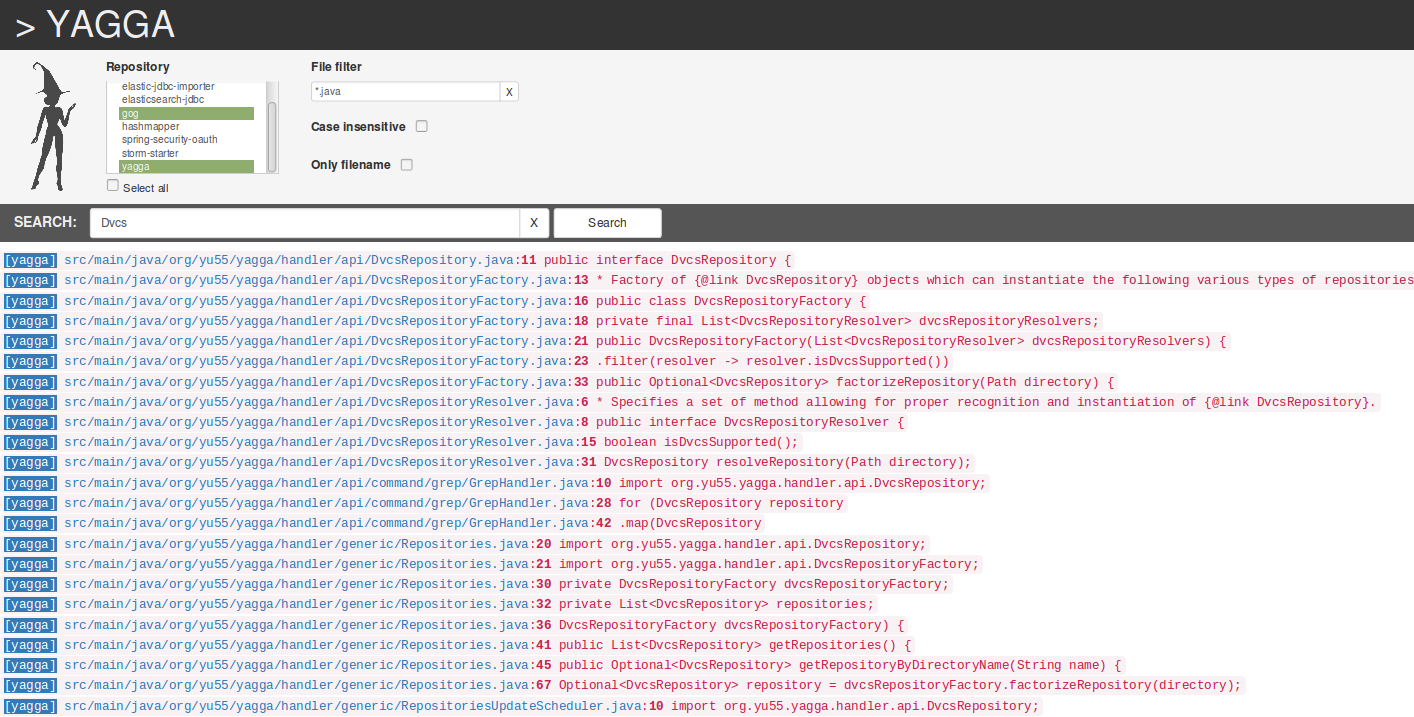
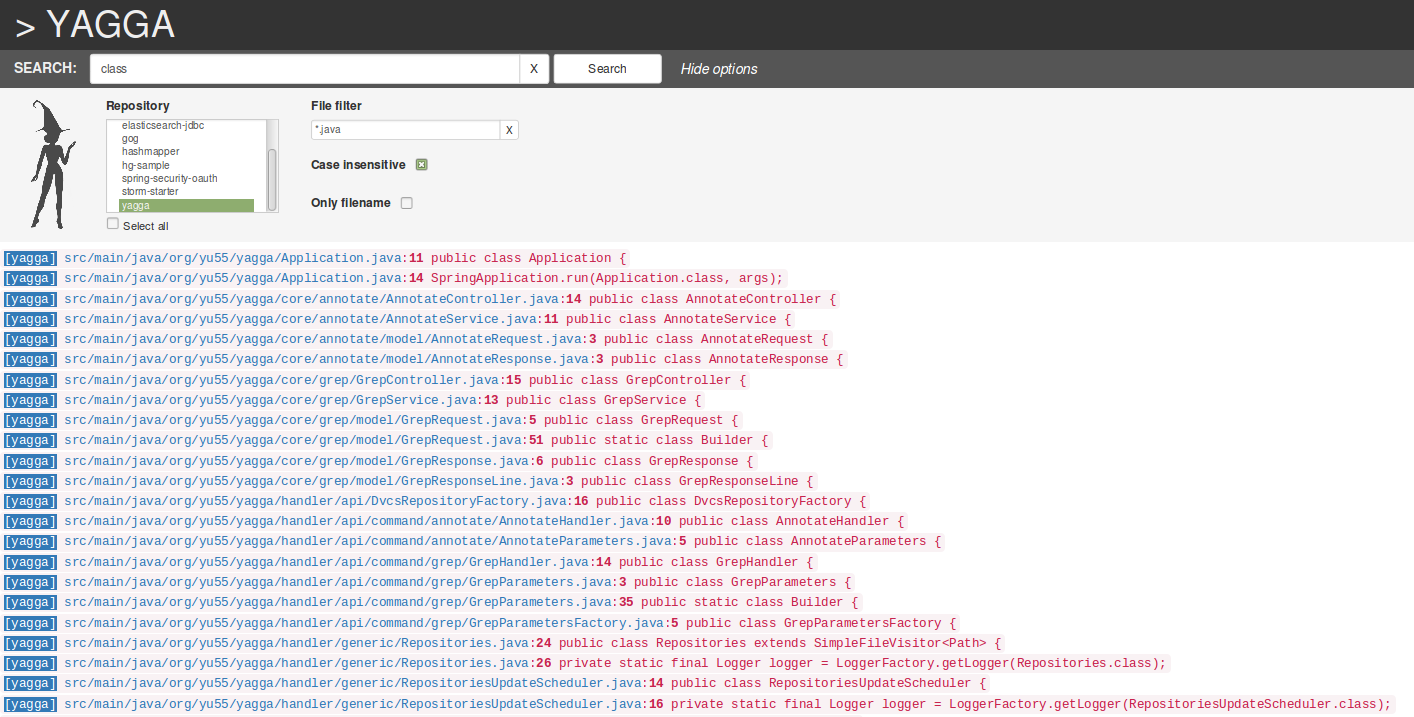
#50 grep l&f changes

Changed region(s): [[0.0, 0.0614, 1.0, 1.0], [0.2178, 0.2148, 0.3112, 0.2455]]

diff --git a/src/main/resources/static/index.html b/src/main/resources/static/index.html
@@ -13,7 +13,24 @@
     <h1>&nbsp;> YAGGA</h1>
 </div>
 <form ng-submit="grep()" class="form-inline">
-    <div class="searchSection">
+    <div class="form-group"
+         style="padding-left: 1em; width: 100%; color: #eee; background-color: #555; padding-top: 0.3em; padding-bottom: 0.3em; margin-bottom: 0.0em">
+        <label>SEARCH: &nbsp;</label>
+
+        <div class="input-group input-group-sm">
+            <input type="text" class="form-control" id="grepText" ng-model="wanted" ng-trim="false" size="60"/>
+            <span class="input-group-btn">
+                <button class="btn btn-default" type="button" data-ng-click="clearSearchWanted()">X</button>
+            </span>
+        </div>
+        <div class="btn-group btn-group-sm">
+            <input type="submit" class="btn btn-default" style="width: 9em" value="Search"/>
+        </div>
+        <div class="input-group input-group-sm" style="margin-left: 1em">
+            <span id="show_options" ng-click="switchOptions()" style="font-style: italic; color: white; margin: 0px; padding: 0px; cursor: pointer">{{optionsLabel[options]}}</span>
+        </div>
+    </div>
+    <div class="searchSection" ng-show="options == 0">
         <table border="0" cellspacing="0" cellpadding="5px">
             <tr>
                 <td style="padding-left: 2em; padding-right: 2em">
@@ -35,15 +52,15 @@
                                 <br/>
 
                                 <div class="checkbox">
-                                    <input type="checkbox" ng-model="selected" ng-change="selectAll(selected)">
-                                    <span style="font-size: smaller; ">Select all</span>
+                                    <input id="selectAll" type="checkbox" ng-model="selected" ng-change="selectAll()">
+                                    <label style="font-size: smaller;" for="selectAll">Select all</label>
                                 </div>
                             </div>
                         </div>
                         <div class="form-group" style="vertical-align: top; padding-right: 3em; padding-left: 2em">
                             <label style="font-size: 12px">File filter</label><br/>
 
-                            <div class="input-group input-group-sm">
+                            <div class="input-group">
                                 <input type="text" style="font-size: 10px; padding: 3px; height: 20px" class="form-control" id="fileFilter" ng-model="fileFilter"
                                        ng-trim="false" size="30"/>
                                 <span class="input-group-btn">
@@ -52,19 +69,19 @@
                                 </span>
                             </div>
                             <br/>
-                            <div class="input-group input-group-sm" style="margin-top: 1em">
-                                <label style="font-size: 12px">Case insensitive</label>
+                            <div class="input-group" style="margin-top: 1em">
+                                <label for="ignoreCase" style="font-size: 12px">Case insensitive</label>
 
                                 <div class="checkbox" style="margin-left: 0.4em">
-                                    <input type="checkbox" ng-model="ignoreCase"/>
+                                    <input id="ignoreCase" type="checkbox" ng-model="ignoreCase"/>
                                 </div>
                             </div>
                             <br/>
-                            <div class="input-group input-group-sm" style="margin-top: 1em">
-                                <label style="font-size: 12px">Only filename</label>
+                            <div class="input-group" style="margin-top: 1em">
+                                <label for="onlyFilename" style="font-size: 12px">Only filename</label>
 
                                 <div class="checkbox" style="margin-left: 0.4em">
-                                    <input type="checkbox" ng-model="onlyFilename"/>
+                                    <input id="onlyFilename" type="checkbox" ng-model="onlyFilename"/>
                                 </div>
                             </div>
                         </div>
@@ -73,26 +90,14 @@
             </tr>
         </table>
     </div>
-    <div class="form-group"
-         style="padding-left: 1em; width: 100%; color: #eee; background-color: #555; padding-top: 0.3em; padding-bottom: 0.3em; margin-bottom: 0.5em">
-        <label>SEARCH: &nbsp;</label>
-
-        <div class="input-group input-group-sm">
-            <input type="text" class="form-control" id="grepText" ng-model="wanted" ng-trim="false" size="60"/>
-            <span class="input-group-btn">
-                <button class="btn btn-default" type="button" data-ng-click="clearSearchWanted()">X</button>
-            </span>
-        </div>
-        <div class="btn-group btn-group-sm">
-            <input type="submit" class="btn btn-default" style="width: 9em" value="Search"/>
-        </div>
-    </div>
 </form>
-<div style="white-space: nowrap" ng-repeat="grep in greps track by $index">
-    <code>
-        <span class="bg-primary">[{{grep.repository}}]</span>
-        <a target="_blank" ng-href="preview.html#?repository={{grep.repository}}&file={{escape(grep.file)}}">{{grep.file}}</a><span ng-if="grep.matchedTextLine">:<span style="font-weight: bold">{{grep.lineNumber}}</span> {{grep.matchedTextLine}}</span>
-    </code>
+<div style="margin-top: 5px">
+    <div style="white-space: nowrap" ng-repeat="grep in greps track by $index">
+        <code>
+            <span class="bg-primary">[{{grep.repository}}]</span>
+            <a target="_blank" ng-href="preview.html#?repository={{grep.repository}}&file={{escape(grep.file)}}">{{grep.file}}</a><span ng-if="grep.matchedTextLine">:<span style="font-weight: bold">{{grep.lineNumber}}</span> {{grep.matchedTextLine}}</span>
+        </code>
+    </div>
 </div>
 <span style="margin-left: 2em">{{message}}</span>
 

diff --git a/src/main/resources/static/yagga/js/grep.js b/src/main/resources/static/yagga/js/grep.js
@@ -1,13 +1,12 @@
 var nameApp = angular.module('yagga', []);
 nameApp.controller('yaggaGrepCtrl', function ($scope, $http) {
+    $scope.selected = true;
 
-    $http.get('repositories').success(function (data) {
-        $scope.repositories = data;
-    });
-
-    $scope.selectAll = function (selected) {
-        if (selected) {
+    $scope.selectAll = function () {
+        if ($scope.selected) {
             $scope.multipleSelect = $scope.repositories;
+        } else {
+            $scope.multipleSelect = [];
         }
     }
 
@@ -21,6 +20,13 @@ nameApp.controller('yaggaGrepCtrl', function ($scope, $http) {
 
     $scope.clearSearchWanted = function () {
         $scope.wanted = "";
+    }
+
+    $scope.options = 1;
+    $scope.optionsLabel = ['Hide options', 'Show options'];
+
+    $scope.switchOptions = function() {
+        $scope.options = ($scope.options + 1) % 2;
     }
 
     $scope.grep = function () {
@@ -68,5 +74,10 @@ nameApp.controller('yaggaGrepCtrl', function ($scope, $http) {
     $scope.escape = function (toEscape) {
         return encodeURIComponent(toEscape);
     }
+
+    $http.get('repositories').success(function (data) {
+        $scope.repositories = data;
+        $scope.selectAll();
+    });
 });
 

diff --git a/src/main/resources/static/yagga/css/yagga.css b/src/main/resources/static/yagga/css/yagga.css
@@ -13,6 +13,6 @@
 .searchSection {
     padding: 0.5em 0em 0.5em 0em;
     background-color: #f5f5f5;
-    width: 100%
+    width: 100%;
     margin: 0px;
 }
